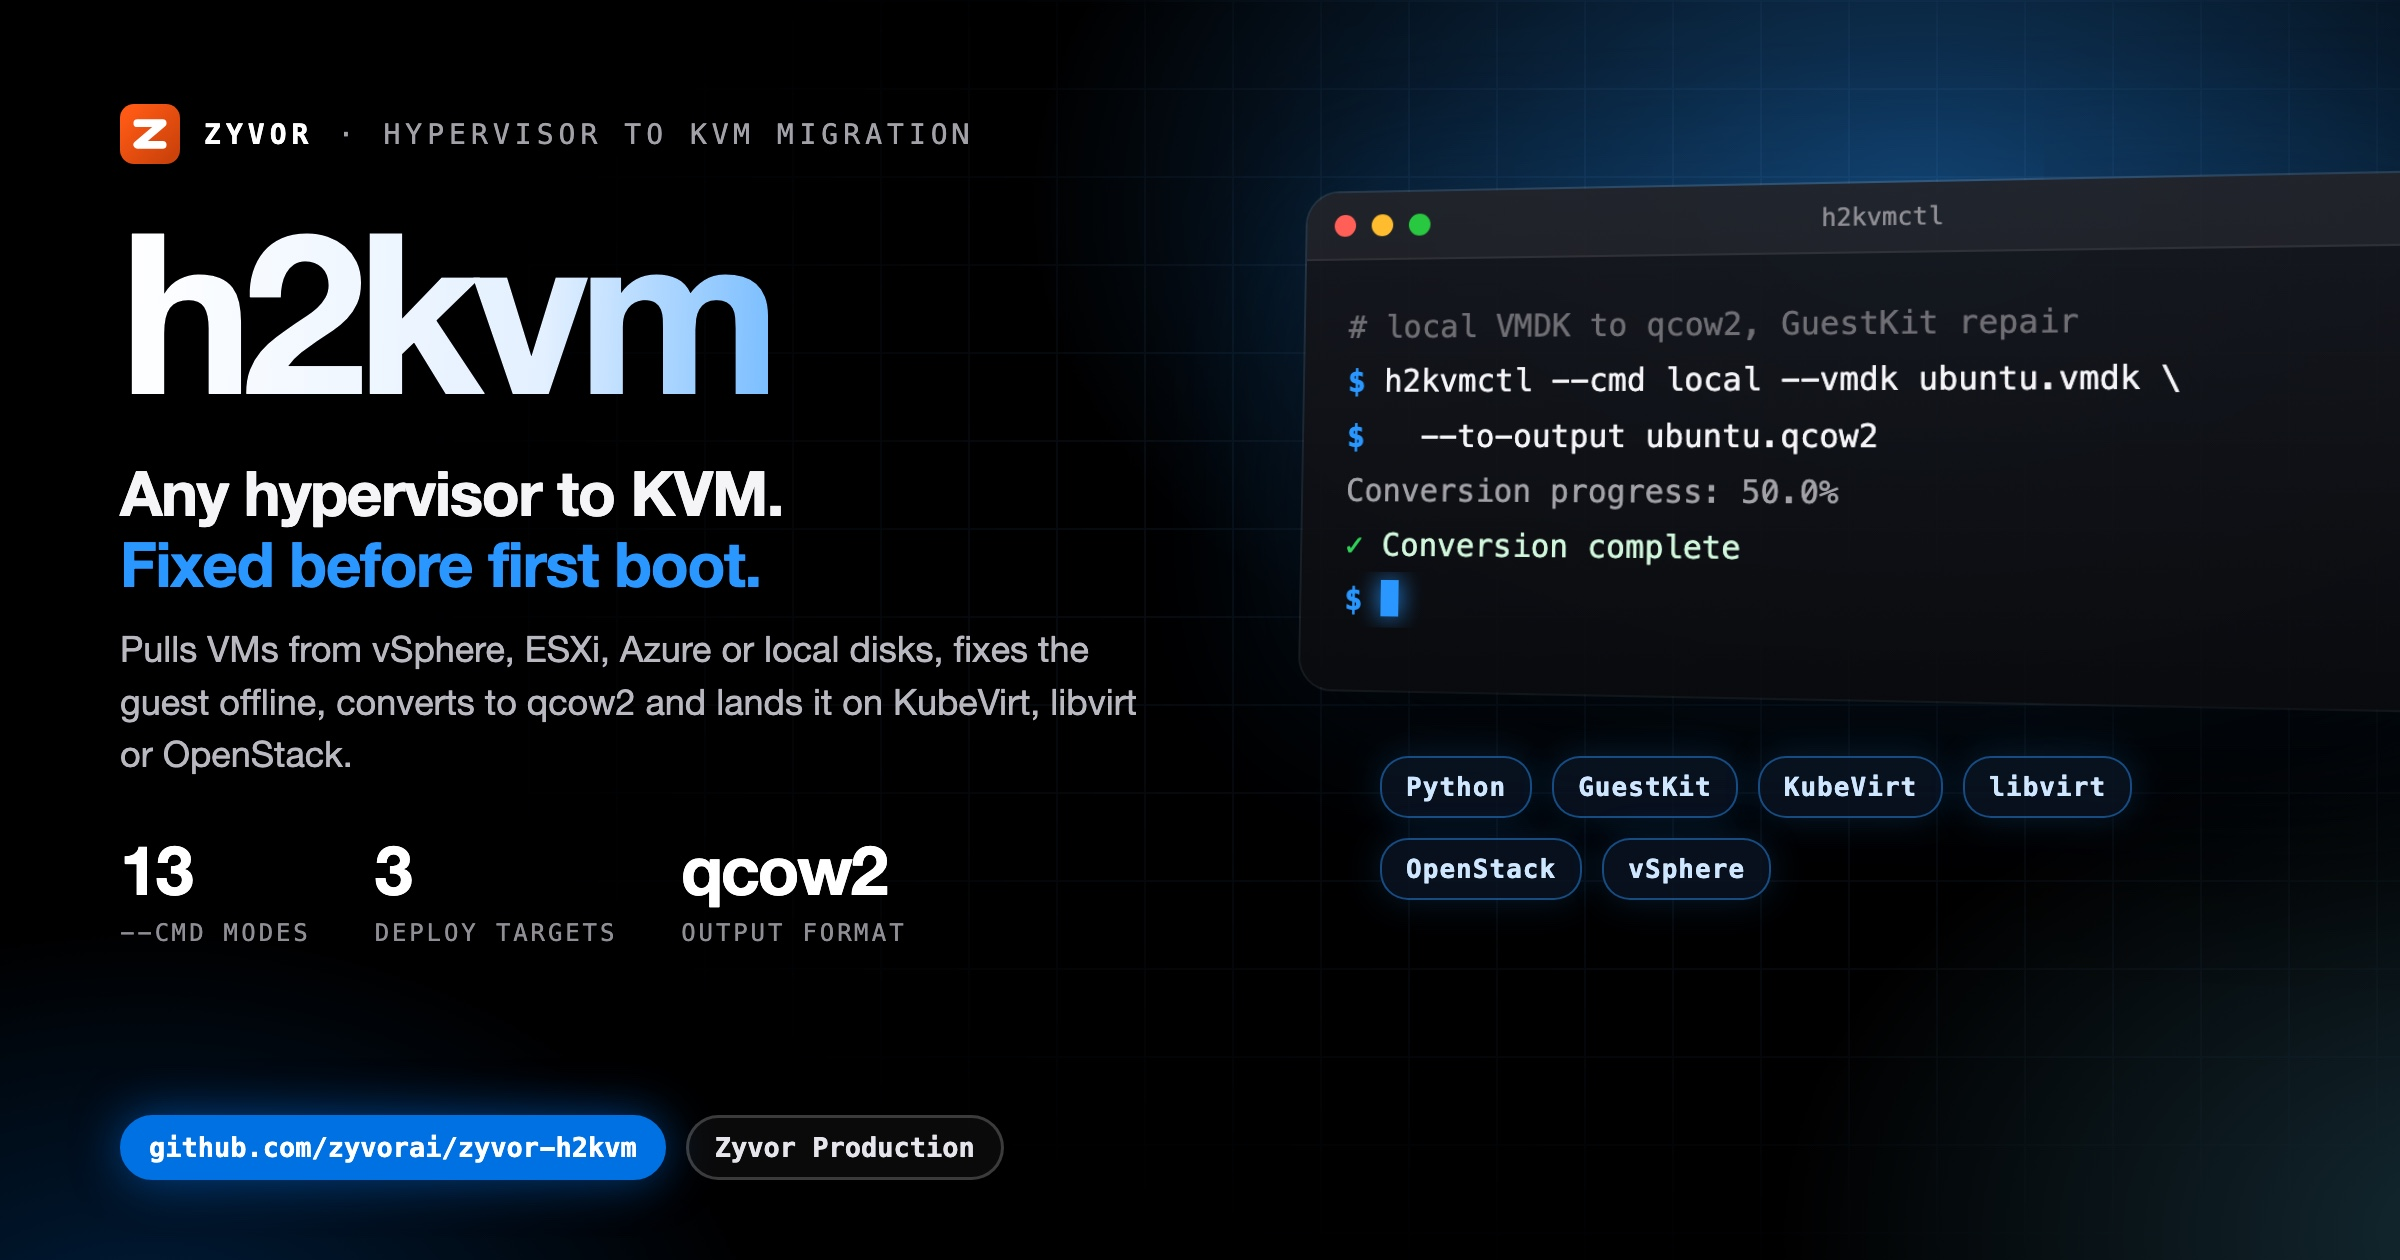
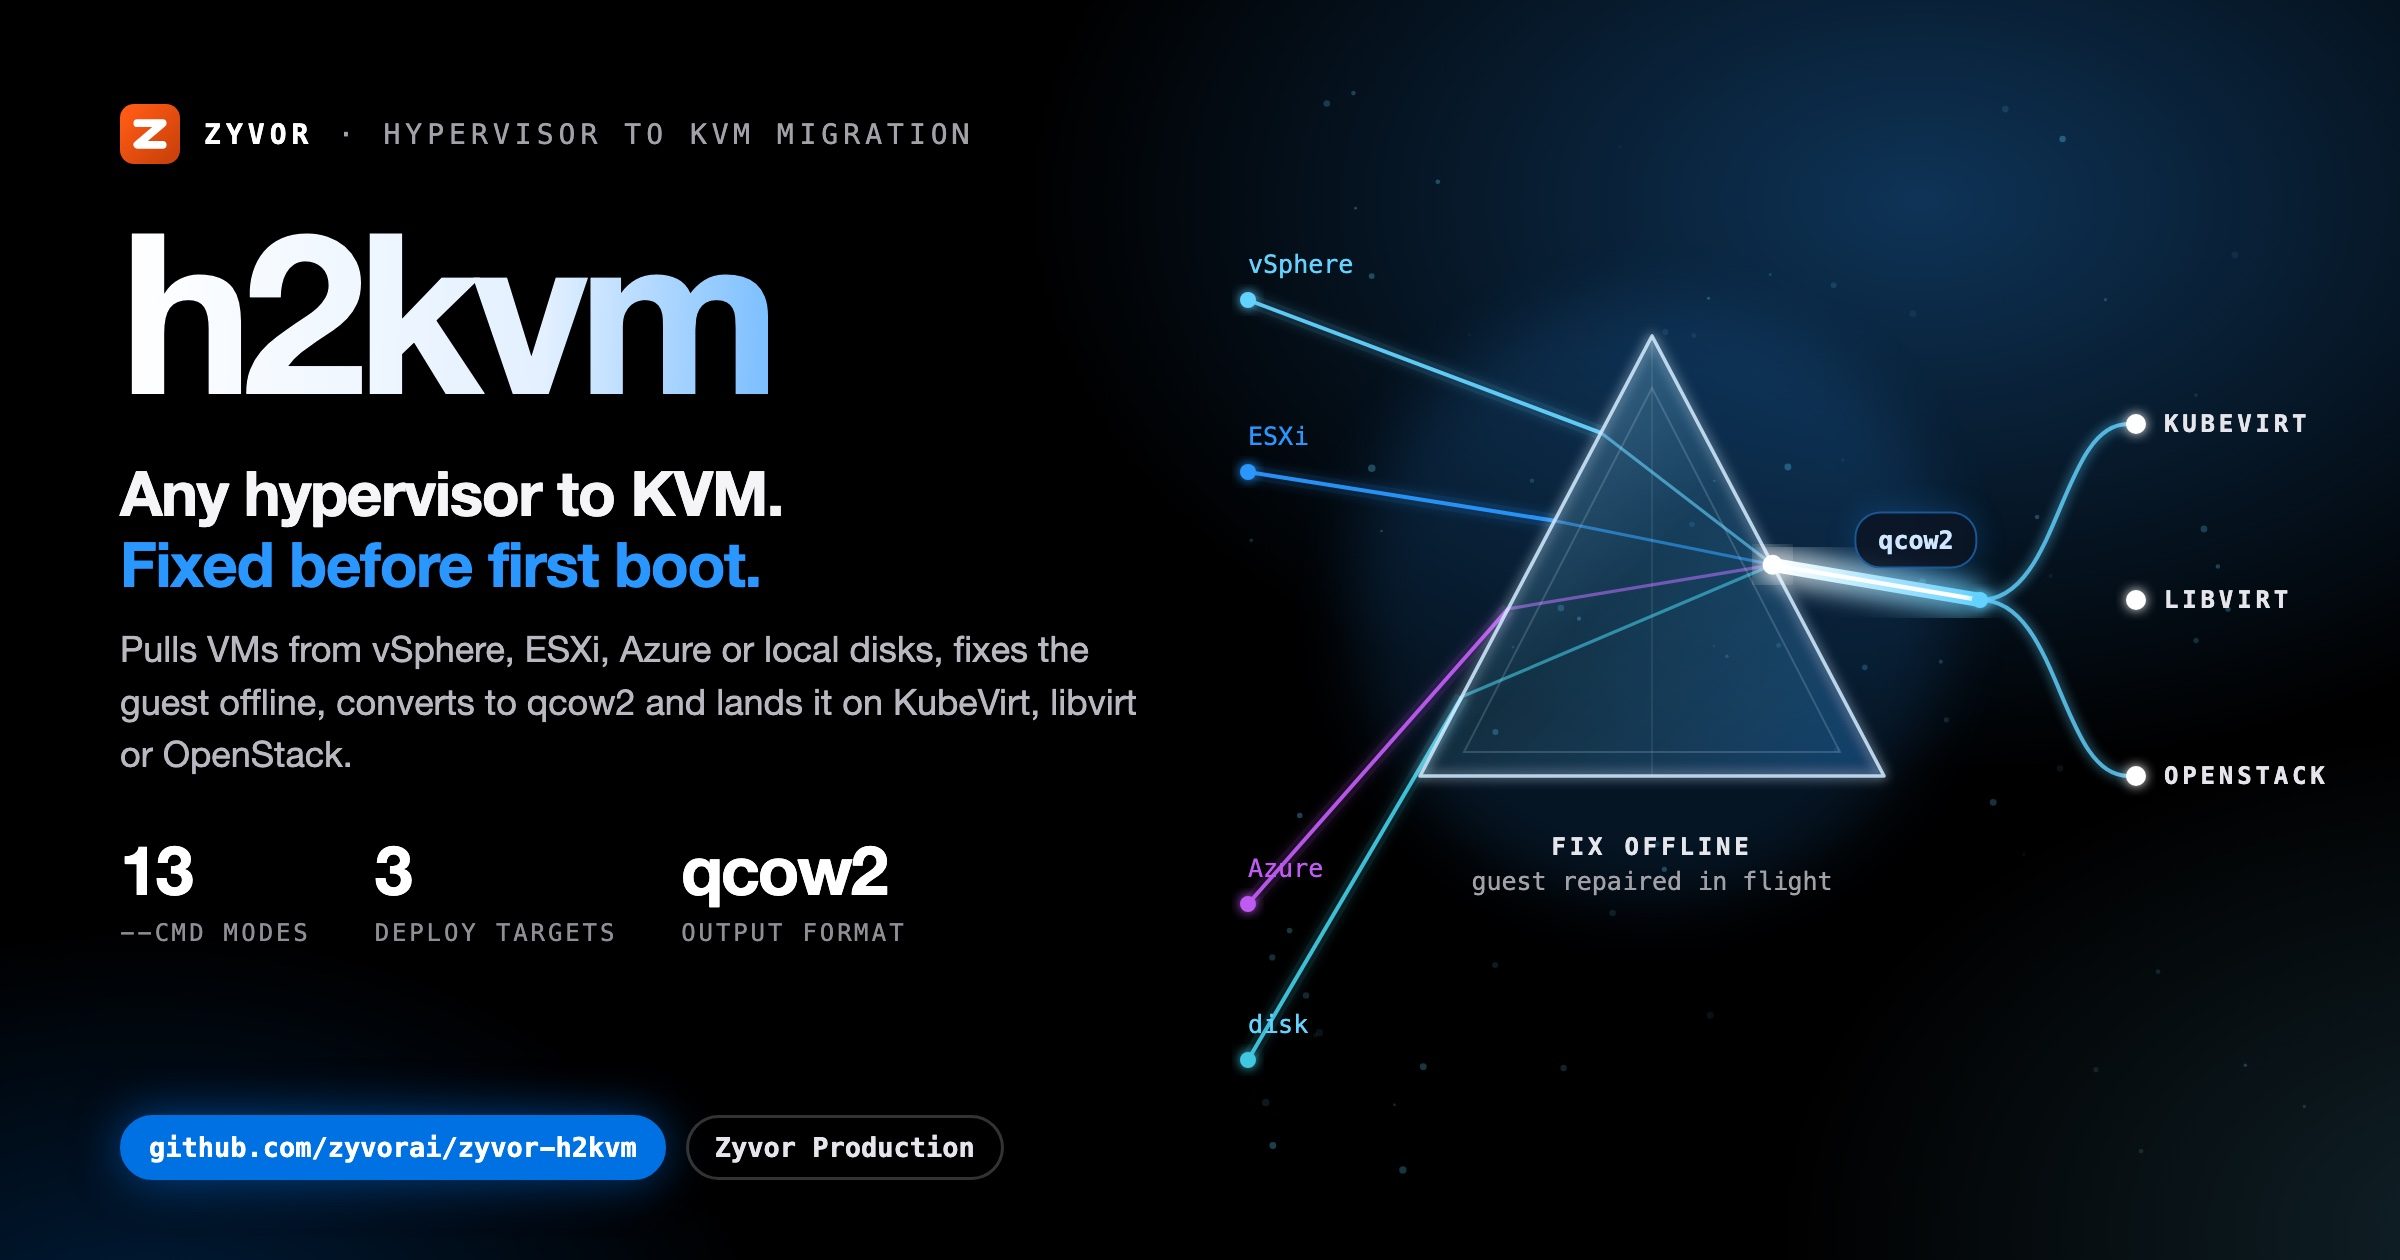
docs(social): unique illustrated hero card
Replace the shared terminal-window art with a motif drawn for this project;
same verified copy and stats on the left.

Changed region(s): [[0.5, 0.1238, 1.0, 0.8667], [0.875, 0.4643, 0.9688, 0.4952], [0.5, 0.2167, 0.5312, 0.2476]]

diff --git a/docs/social/h2kvm-hero-dark.html b/docs/social/h2kvm-hero-dark.html
@@ -8,58 +8,47 @@
   Build: ./docs/social/build-hero-dark.sh  ->  h2kvm-hero-dark.jpg (2400x1260)
 -->
 <style>
-  :root { --blue:#0071e3; --signal:#2997ff; --cyan:#64d2ff; --green:#30d158; --amber:#ff9f0a;
+  :root { --blue:#0071e3; --signal:#2997ff; --cyan:#64d2ff; --green:#30d158; --amber:#ff9f0a; --red:#ff453a; --violet:#bf5af2;
     --sans:'SF Pro Display','Helvetica Neue',Helvetica,Arial,sans-serif; --mono:'SF Mono',Menlo,Consolas,monospace; }
   * { box-sizing:border-box; }
   html,body { margin:0; padding:0; }
   body { width:1200px; height:630px; overflow:hidden; color:#f5f5f7; font-family:var(--sans); position:relative; background:#000; }
   .aurora { position:absolute; inset:0;
-    background:radial-gradient(720px 460px at 80% 16%, rgba(41,151,255,.40), transparent 62%),
-               radial-gradient(600px 420px at 104% 98%, rgba(100,210,255,.20), transparent 60%),
+    background:radial-gradient(720px 460px at 80% 16%, rgba(41,151,255,.34), transparent 62%),
+               radial-gradient(600px 420px at 104% 98%, rgba(100,210,255,.16), transparent 60%),
                radial-gradient(520px 380px at 6% 110%, rgba(0,113,227,.28), transparent 60%); }
-  .grid { position:absolute; inset:0; opacity:.09;
-    background-image:linear-gradient(rgba(120,180,255,.9) 1px,transparent 1px),linear-gradient(90deg,rgba(120,180,255,.9) 1px,transparent 1px);
-    background-size:44px 44px; -webkit-mask-image:radial-gradient(900px 520px at 72% 42%, #000 18%, transparent 75%); }
-  .left { position:absolute; left:60px; top:52px; width:560px; z-index:3; }
+  .copy { position:absolute; left:60px; top:52px; width:560px; z-index:3; }
   .brand { display:flex; align-items:center; gap:12px; font-family:var(--mono); font-size:14px; letter-spacing:.18em; text-transform:uppercase; color:#a1a1a6; }
   .brand b { color:#fff; }
   .word { margin:20px 0 0; font-size:112px; line-height:.95; font-weight:800; letter-spacing:-.05em; white-space:nowrap;
     background:linear-gradient(92deg,#fff 0%,#e3f0ff 38%,var(--signal) 74%,var(--cyan) 100%); -webkit-background-clip:text; background-clip:text; color:transparent; padding-bottom:6px; }
   .tag { margin:14px 0 0; font-size:31px; line-height:1.15; font-weight:700; letter-spacing:-.02em; }
   .tag em { font-style:normal; color:var(--signal); }
-  .lede { margin:12px 0 0; font-size:18px; line-height:1.45; color:#b8b8bf; width:520px; }
+  .lede { margin:12px 0 0; font-size:18px; line-height:1.45; color:#b8b8bf; width:520px; text-shadow:0 1px 12px #000; }
   .stats { margin-top:24px; display:flex; gap:32px; }
   .stat b { display:block; font-size:34px; font-weight:800; letter-spacing:-.03em; color:#fff; }
   .stat span { font-family:var(--mono); font-size:12px; letter-spacing:.12em; text-transform:uppercase; color:#8e8e93; }
   .pill { position:absolute; left:60px; bottom:40px; display:flex; gap:10px; z-index:3; }
-  .pill span { font-family:var(--mono); font-size:13.5px; font-weight:700; padding:7px 13px; border-radius:18px; border:1.5px solid rgba(255,255,255,.2); color:#e5e5ea; background:rgba(255,255,255,.04); }
+  .pill span { font-family:var(--mono); font-size:13.5px; font-weight:700; padding:7px 13px; border-radius:18px; border:1.5px solid rgba(255,255,255,.2); color:#e5e5ea; background:rgba(0,0,0,.6); }
   .pill span.b { background:var(--blue); border-color:var(--blue); color:#fff; box-shadow:0 0 24px rgba(0,113,227,.55); }
-
-  .right { position:absolute; left:652px; top:96px; width:560px; z-index:2; }
-  .win { position:relative; width:560px; border-radius:16px; overflow:hidden; z-index:2;
-    background:linear-gradient(180deg, rgba(22,24,30,.94), rgba(10,11,14,.96));
-    box-shadow:0 50px 100px rgba(0,0,0,.75), 0 0 0 1px rgba(255,255,255,.14), 0 0 90px rgba(41,151,255,.22);
-    transform:perspective(1600px) rotateY(-14deg) rotateX(4deg); transform-origin:left center; }
-  .bar { height:34px; display:flex; align-items:center; gap:8px; padding:0 14px; background:rgba(255,255,255,.05); border-bottom:1px solid rgba(255,255,255,.07); }
-  .bar i { width:11px; height:11px; border-radius:50%; background:#ff5f57; } .bar i:nth-child(2){background:#febc2e} .bar i:nth-child(3){background:#28c840}
-  .bar em { margin-left:auto; margin-right:auto; font-style:normal; font-family:var(--mono); font-size:12px; color:#8e8e93; transform:translateX(-24px); }
-  .term { min-height:214px; padding:20px 22px 24px; font-family:var(--mono); font-size:15.5px; line-height:1.75; }
-  .l { white-space:pre; overflow:hidden; text-overflow:ellipsis; color:#f5f5f7; }
-  .l .p { color:var(--signal); font-weight:700; }
-  .l.out { color:#a1a1a6; }
-  .l.cm { color:#6e6e73; }
-  .l.ok { color:#d1f7dc; } .l.ok span { color:var(--green); font-weight:700; }
-  .l.warn { color:#ffe1b0; } .l.warn span { color:var(--amber); font-weight:700; }
-  .cur { display:inline-block; width:9px; height:18px; background:var(--signal); vertical-align:-3px; box-shadow:0 0 12px var(--signal); }
-  .chips { margin:34px 0 0 38px; width:480px; display:flex; flex-wrap:wrap; gap:10px; position:relative; z-index:3; }
-  .chips span { font-family:var(--mono); font-size:13px; font-weight:700; letter-spacing:.04em; padding:7px 12px; border-radius:14px;
-    color:#cfe6ff; background:rgba(10,20,35,.82); border:1px solid rgba(41,151,255,.45); box-shadow:0 0 18px rgba(41,151,255,.18); }
+  .art { position:absolute; left:520px; top:0; width:680px; height:630px; z-index:2; }
+  .art svg { display:block; }
+  #labels { position:absolute; inset:0; z-index:4; pointer-events:none; }
+  .lbl { position:absolute; font-family:var(--mono); font-size:12.5px; color:#a1a1a6; text-align:center; transform:translate(-50%,-50%); white-space:nowrap; }
+  .lbl b { display:block; font-size:12px; letter-spacing:.16em; text-transform:uppercase; color:#e5e5ea; }
+  .lbl span { display:block; margin-top:3px; }
+  .lbl.box { padding:7px 12px; border-radius:12px; background:rgba(8,10,14,.85); border:1px solid rgba(255,255,255,.14); }
+  .lbl.chip { padding:6px 11px; border-radius:13px; font-size:12.5px; font-weight:700; color:#cfe6ff; background:rgba(10,20,35,.85); border:1px solid rgba(41,151,255,.5); box-shadow:0 0 16px rgba(41,151,255,.2); }
+  .lbl.left { transform:translate(0,-50%); text-align:left; }
+  .lbl.right { transform:translate(-100%,-50%); text-align:right; }
+  .ok { color:var(--green) !important; } .warn { color:var(--amber) !important; } .bad { color:var(--red) !important; } .sig { color:var(--signal) !important; } .cy { color:var(--cyan) !important; } .vi { color:var(--violet) !important; }
 </style>
 </head>
 <body>
 <div class="aurora"></div>
-<div class="grid"></div>
-<div class="left">
+<div class="art"><svg id="art" width="680" height="630" viewBox="0 0 680 630" xmlns="http://www.w3.org/2000/svg"></svg></div>
+<div id="labels"></div>
+<div class="copy">
   <div class="brand"><svg viewBox="0 0 64 64" width="30" height="30" aria-hidden="true"><defs><linearGradient id="zb" x1="8" y1="8" x2="56" y2="56" gradientUnits="userSpaceOnUse"><stop offset="0" stop-color="#ff5a15"/><stop offset="1" stop-color="#cc420a"/></linearGradient></defs><rect width="64" height="64" rx="15" fill="url(#zb)"/><path d="M18.5,20.5 45.5,20.5 18.5,43.5 45.5,43.5" fill="none" stroke="#fff" stroke-width="8.3" stroke-linecap="round" stroke-linejoin="round"/></svg><b>Zyvor</b><span>&middot;</span><span>Hypervisor to KVM migration</span></div>
   <div class="word">h2kvm</div>
   <div class="tag">Any hypervisor to KVM.<br><em>Fixed before first boot.</em></div>
@@ -67,8 +56,70 @@
   <div class="stats"><div class="stat"><b>13</b><span>--cmd modes</span></div><div class="stat"><b>3</b><span>deploy targets</span></div><div class="stat"><b>qcow2</b><span>output format</span></div></div>
 </div>
 <div class="pill"><span class="b">github.com/zyvorai/zyvor-h2kvm</span><span>Zyvor Production</span></div>
-<div class="right"><div class="win"><div class="bar"><i></i><i></i><i></i><em>h2kvmctl</em></div>
-<div class="term"><div class="l cm"># local VMDK to qcow2, GuestKit repair</div><div class="l"><span class="p">$</span> h2kvmctl --cmd local --vmdk ubuntu.vmdk \</div><div class="l"><span class="p">$</span>   --to-output ubuntu.qcow2</div><div class="l out">Conversion progress: 50.0%</div><div class="l ok"><span>&#10003;</span> Conversion complete</div><div class="l"><span class="p">$</span> <i class="cur"></i></div></div></div>
-<div class="chips"><span>Python</span><span>GuestKit</span><span>KubeVirt</span><span>libvirt</span><span>OpenStack</span><span>vSphere</span></div></div>
+<script>
+var Z = (function () {
+  var NS = 'http://www.w3.org/2000/svg', svg = document.getElementById('art'), labels = document.getElementById('labels');
+  var seed = 20261004;
+  function rnd() { seed = (seed * 1103515245 + 12345) % 2147483648; return seed / 2147483648; }
+  function el(tag, a, parent) { var n = document.createElementNS(NS, tag); for (var k in a) n.setAttribute(k, a[k]); (parent || svg).appendChild(n); return n; }
+  function g(attrs) { return el('g', attrs || {}); }
+  function label(x, y, inner, cls, style) { var d = document.createElement('div'); d.className = 'lbl ' + (cls || ''); d.style.left = (520 + x) + 'px'; d.style.top = y + 'px'; if (style) d.setAttribute('style', d.getAttribute('style') + ';' + style); d.innerHTML = inner; labels.appendChild(d); return d; }
+  return { NS: NS, svg: svg, W: 680, H: 630, rnd: rnd, el: el, g: g, label: label,
+    reseed: function (s) { seed = s; },
+    c: { blue: '#0071e3', signal: '#2997ff', cyan: '#64d2ff', green: '#30d158', amber: '#ff9f0a', red: '#ff453a', violet: '#bf5af2', teal: '#40c8e0', indigo: '#5e5ce6', pink: '#ff375f', white: '#f5f5f7', grey: '#8e8e93' } };
+})();
+(function () {
+// h2kvm: coloured source streams enter a glass prism and leave as one qcow2 beam that lands on three KVM targets.
+var C = Z.c;
+var defs = Z.el('defs', {});
+defs.innerHTML = '<filter id="hpgl" x="-50%" y="-50%" width="200%" height="200%"><feGaussianBlur stdDeviation="3" result="b"/><feMerge><feMergeNode in="b"/><feMergeNode in="SourceGraphic"/></feMerge></filter>' +
+  '<filter id="hpbig" x="-50%" y="-50%" width="200%" height="200%"><feGaussianBlur stdDeviation="7" result="b"/><feMerge><feMergeNode in="b"/><feMergeNode in="b"/><feMergeNode in="SourceGraphic"/></feMerge></filter>' +
+  '<filter id="hpsf" x="-50%" y="-50%" width="200%" height="200%"><feGaussianBlur stdDeviation="16"/></filter>' +
+  '<linearGradient id="hpglass" x1="0" y1="0" x2="1" y2="1"><stop offset="0" stop-color="#cfe6ff" stop-opacity=".22"/><stop offset=".5" stop-color="#64d2ff" stop-opacity=".07"/><stop offset="1" stop-color="#2997ff" stop-opacity=".18"/></linearGradient>' +
+  '<linearGradient id="hpbeam" x1="0" y1="0" x2="1" y2="0"><stop offset="0" stop-color="#ffffff"/><stop offset="1" stop-color="#64d2ff"/></linearGradient>';
+// prism geometry (apex up)
+var A = [306, 168], B = [190, 388], Cc = [422, 388];
+var ex = [A[0] + (Cc[0] - A[0]) * 0.52, A[1] + (Cc[1] - A[1]) * 0.52];
+// faint dust
+for (var i = 0; i < 70; i++) {
+  var x = 100 + Z.rnd() * 540, y = 40 + Z.rnd() * 550;
+  Z.el('circle', { cx: x, cy: y, r: (0.6 + Z.rnd() * 1.3).toFixed(2), fill: C.cyan, opacity: (0.06 + Z.rnd() * 0.25).toFixed(2) });
+}
+Z.el('circle', { cx: 306, cy: 300, r: 150, fill: C.signal, opacity: .14, filter: 'url(#hpsf)' });
+var srcs = [
+  { name: 'vSphere', y: 150, col: C.cyan, t: 0.22 },
+  { name: 'ESXi', y: 236, col: C.signal, t: 0.42 },
+  { name: 'Azure', y: 452, col: C.violet, t: 0.62 },
+  { name: 'disk', y: 530, col: C.teal, t: 0.82 }
+];
+srcs.forEach(function (s) {
+  var hx = A[0] + (B[0] - A[0]) * s.t, hy = A[1] + (B[1] - A[1]) * s.t, sx = 104;
+  Z.el('line', { x1: sx, y1: s.y, x2: hx, y2: hy, stroke: s.col, 'stroke-width': 7, opacity: .16, filter: 'url(#hpgl)' });
+  Z.el('line', { x1: sx, y1: s.y, x2: hx, y2: hy, stroke: s.col, 'stroke-width': 2, opacity: .95 });
+  Z.el('line', { x1: hx, y1: hy, x2: ex[0], y2: ex[1], stroke: s.col, 'stroke-width': 1.6, opacity: .6 });
+  Z.el('circle', { cx: sx, cy: s.y, r: 4, fill: s.col, filter: 'url(#hpgl)' });
+  Z.label(104, s.y - 18, '<span class="' + ({ vSphere: 'cy', ESXi: 'sig', Azure: 'vi', disk: 'cy' })[s.name] + '" style="margin:0">' + s.name + '</span>', 'left');
+});
+// glass prism
+Z.el('path', { d: 'M' + A + ' L' + B + ' L' + Cc + 'Z', fill: 'url(#hpglass)', stroke: 'rgba(210,235,255,.85)', 'stroke-width': 1.8, 'stroke-linejoin': 'round', filter: 'url(#hpgl)' });
+Z.el('path', { d: 'M' + [A[0], A[1] + 26] + ' L' + [B[0] + 22, B[1] - 12] + ' L' + [Cc[0] - 22, Cc[1] - 12] + 'Z', fill: 'none', stroke: 'rgba(210,235,255,.18)', 'stroke-width': 1 });
+Z.el('line', { x1: A[0], y1: A[1], x2: A[0], y2: B[1], stroke: 'rgba(255,255,255,.08)' });
+// exit beam
+var jx = 470, jy = 300;
+Z.el('line', { x1: ex[0], y1: ex[1], x2: jx, y2: jy, stroke: 'url(#hpbeam)', 'stroke-width': 7, filter: 'url(#hpbig)' });
+Z.el('line', { x1: ex[0], y1: ex[1], x2: jx, y2: jy, stroke: '#fff', 'stroke-width': 2.2 });
+Z.el('circle', { cx: ex[0], cy: ex[1], r: 5, fill: '#fff', filter: 'url(#hpbig)' });
+var tg = [212, 300, 388];
+tg.forEach(function (ty) {
+  Z.el('path', { d: 'M' + jx + ',' + jy + ' C' + (jx + 40) + ',' + jy + ' ' + (jx + 40) + ',' + ty + ' ' + 544 + ',' + ty, fill: 'none', stroke: C.cyan, 'stroke-width': 2, opacity: .85, filter: 'url(#hpgl)' });
+  Z.el('circle', { cx: 548, cy: ty, r: 5, fill: '#fff', filter: 'url(#hpgl)' });
+});
+Z.el('circle', { cx: jx, cy: jy, r: 4, fill: C.cyan, filter: 'url(#hpgl)' });
+Z.label(438, 300 - 30, 'qcow2', 'chip');
+var rowCss = 'height:88px;line-height:88px;margin:0';
+Z.label(562, 300, '<b style="' + rowCss + '">KubeVirt</b><b style="' + rowCss + '">libvirt</b><b style="' + rowCss + '">OpenStack</b>', 'left');
+Z.label(306, 432, '<b>fix offline</b><span>guest repaired in flight</span>');
+})();
+</script>
 </body>
 </html>
